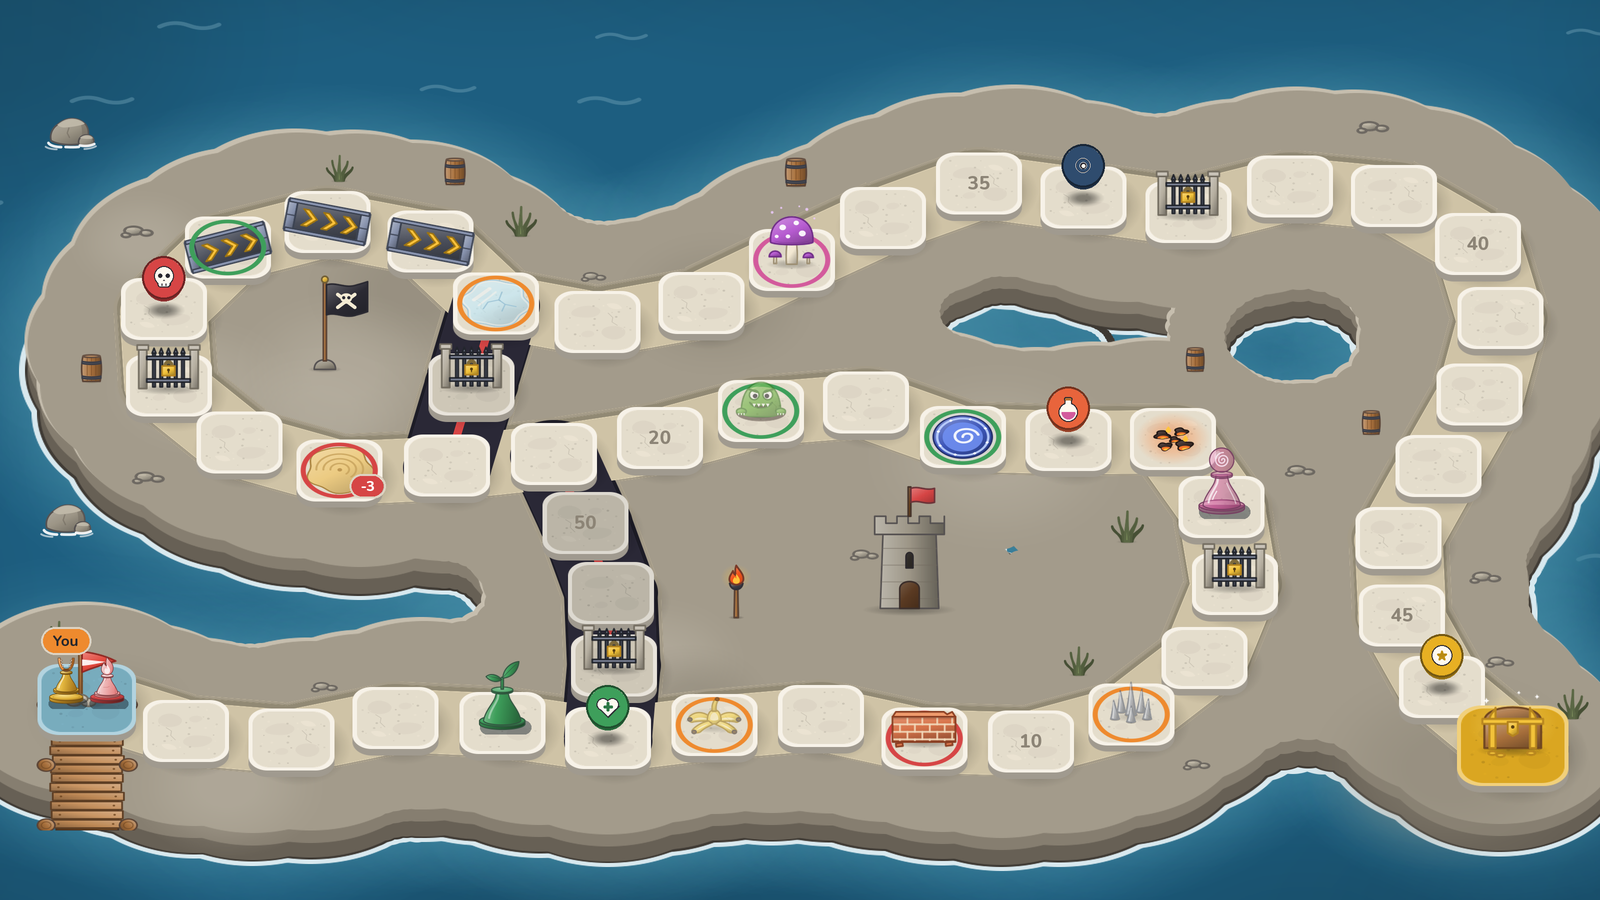
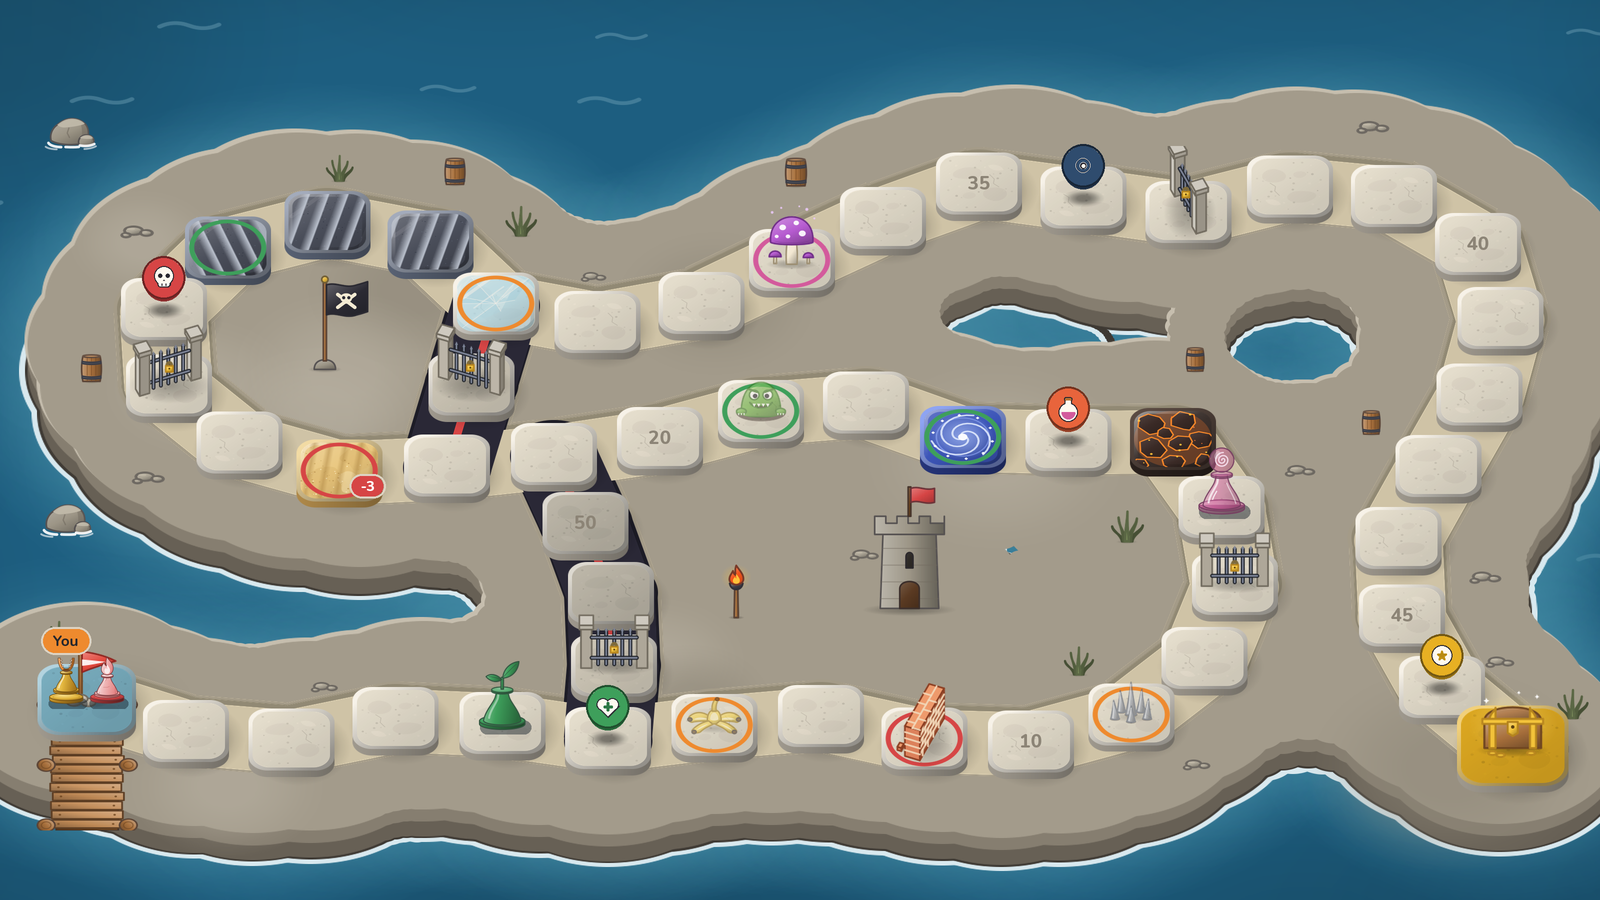
Refresh the previews and the balance tables
The README's screenshots and the map previews are re-rendered with the tiles
that turn into what covers them, and the three new maps get their previews.
The first five maps' balance table is from a fresh run with the Wanted posters
in (19 to 33%, about as before).

Claude-Session: https://claude.ai/code/session_01G3yxCBZyGPGkzs18a12gvx

diff --git a/docs/DESIGN.md b/docs/DESIGN.md
@@ -152,16 +152,16 @@ is noise:
 
 | 4 players, Quick | Mage | Trapper | Fire Starter | Naturalist | Warper | Overseer | Gambler | Cannoneer |
 | --- | --- | --- | --- | --- | --- | --- | --- | --- |
-| Blissful Tricks | 20.7% | 22.4% | 26.6% | 27.0% | 29.2% | 21.2% | 26.4% | 26.6% |
-| Junction Dungeon | 24.7% | 22.0% | 27.6% | 25.0% | 26.6% | 21.0% | 31.5% | 21.7% |
-| Slimy Snares | 20.3% | 25.0% | 24.1% | 29.5% | 28.6% | 20.2% | 29.5% | 22.9% |
-| Haunted Hollow | 27.4% | 21.4% | 22.5% | 28.7% | 24.6% | 22.6% | 29.1% | 23.7% |
-| Mount Kaboom | 20.9% | 23.2% | 24.3% | 28.3% | 29.2% | 20.2% | 29.9% | 24.1% |
+| Blissful Tricks | 25.2% | 22.0% | 25.8% | 21.7% | 26.8% | 24.6% | 29.5% | 24.5% |
+| Junction Dungeon | 24.7% | 22.2% | 23.9% | 28.7% | 26.6% | 22.2% | 33.0% | 18.9% |
+| Slimy Snares | 20.7% | 23.8% | 20.9% | 27.2% | 28.0% | 21.8% | 32.4% | 25.6% |
+| Haunted Hollow | 26.8% | 23.4% | 20.9% | 28.0% | 25.0% | 22.4% | 31.3% | 22.3% |
+| Mount Kaboom | 20.5% | 29.3% | 24.5% | 26.8% | 26.4% | 20.0% | 28.9% | 23.7% |
 
-(This table is from after the card rework: Shifting Sands for the Trampoline, the
-Snare's roll to break free, the Compass and the Thief Potion. The spread is the same
-as before it, 20 to 32%; the Mage and the Overseer sit lowest and the Gambler highest,
-worth watching. The 2- and 6-player tables below are from before the rework.)
+(This table is from after the card rework (Shifting Sands for the Trampoline, the
+Snare's roll to break free, the Compass and the Thief Potion) and the Wanted posters.
+The spread is 19 to 33%, about as before them; the Gambler sits highest, worth
+watching. The 2- and 6-player tables below are from before the rework.)
 
 **The three newest maps** (4 players, Quick, 1000 games each):
 
